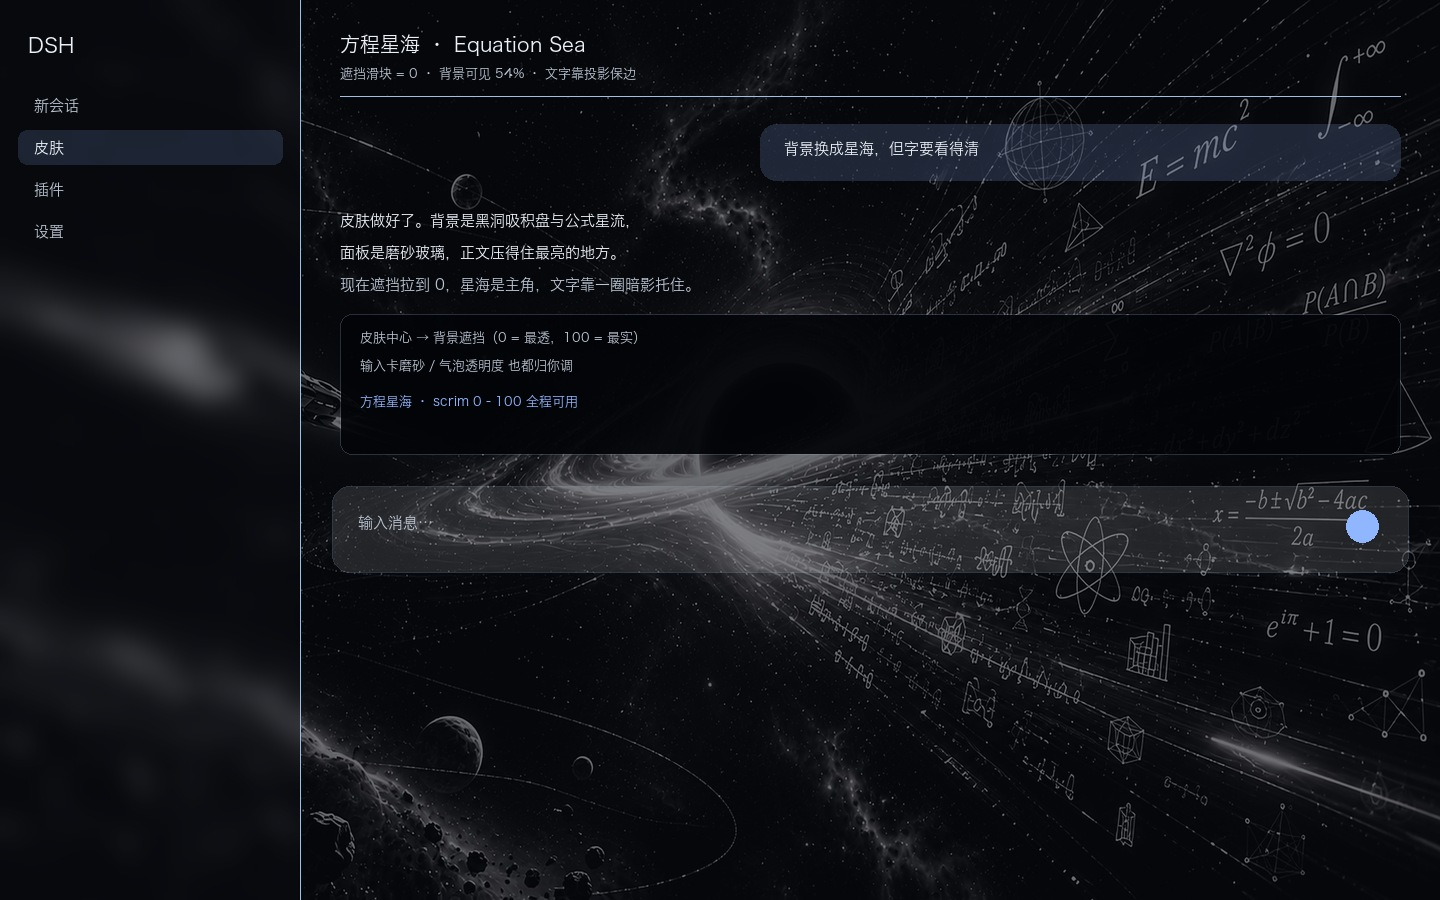
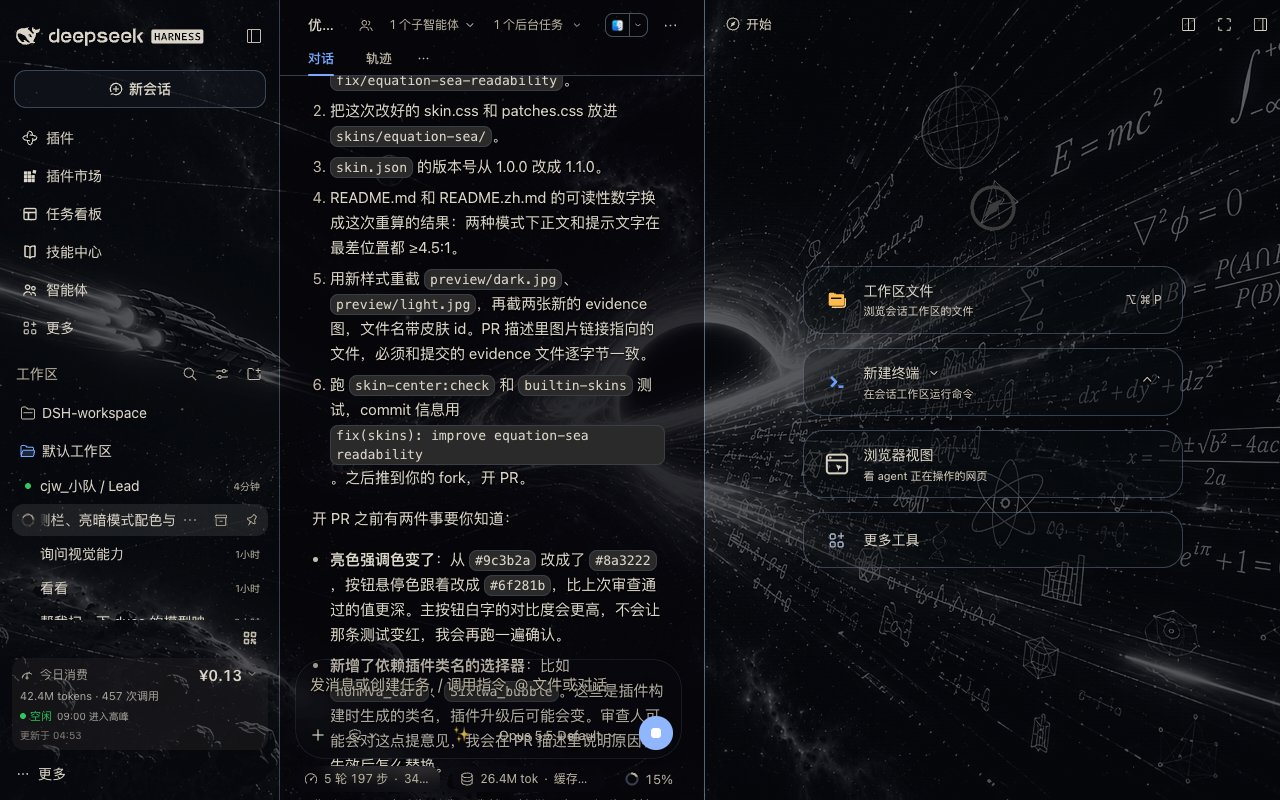
fix: 方程星海 v1.1.0 — 右栏透明、亮暗配色与卡片层叠
- 右侧栏去掉毛玻璃和 dock 重复叠加的底色，只留一层薄面纱；同栏文字单独加深一档
- 文字令牌换色：暗色改暖象牙色（#dcd6ca），亮色改深褐墨色（#2b1f14）；亮色强调色压深到 #8a3222
- 会话区与右栏共用阅读面纱，透明度集中在一个变量里
- 插件市场卡片加实填充、描边与投影，吸顶头接近不透明
- 用户气泡换底色并加发丝边，和模型回复分开
- 终端容器不再自己刷一层纯黑（xterm 未开透明，屏幕内底色仍由插件决定）
- 预览图、可读性表格同步更新

正文与所有提示文字在会话区、右侧栏、市场卡片三处均 >= 4.5:1。

diff --git a/skin.css b/skin.css
@@ -4,8 +4,10 @@
  * 设计前提
  *   背景是纯黑星海（原画 79% 的像素是 #000，最亮处接近 255）。
  *   面板必须是半透明玻璃，否则背景看不见；但玻璃必须够厚，否则文字压不住。
- *   所有 alpha 都用 WCAG 相对亮度算过：在背景**最亮**的那块像素上，
- *   正文 ≥ 8.5:1、次要文字 ≥ 4.6:1，均高于 AA (4.5)。
+ *   所有 alpha 都用 WCAG 相对亮度算过（scrim=0 的最坏情况）：
+ *   暗色看背景**最亮**像素（吸积盘高光 255），亮色看羊皮纸**最暗**像素（约 133）。
+ *   会话区、右侧栏、插件市场卡片三处的正文与所有提示文字均 ≥ 4.5:1（AA）。
+ *   右侧栏比会话区透，所以在 [data-dsh-surface="details"] 内单独加深了次要文字。
  *
  *   --dsw-skin-scrim 是皮肤中心「背景遮挡」滑块的 0–1 值：
  *   scrim=0 背景最透，scrim=1 基本回到实心。默认值下的可读性由下面的
@@ -20,8 +22,9 @@
   --eq-glass-4: calc(0.44 + var(--dsw-skin-scrim, 0) * 0.50);
   --eq-blur: 18px;
   --eq-hairline: rgba(90, 70, 45, 0.20);
-  --eq-accent: #9c3b2a;
-  --eq-accent-soft: rgba(156, 59, 42, 0.14);
+  /* #9c3b2a 在最暗羊皮纸上只有 3.8:1，压深到 #8a3222（4.6:1） */
+  --eq-accent: #8a3222;
+  --eq-accent-soft: rgba(138, 50, 34, 0.14);
 }
 
 /* 画布本身几乎透明，让星海透出来；真正的可读性由面板层负责 */
@@ -52,23 +55,35 @@
   --dsw-alias-markdown-code-block: rgba(250, 243, 228, 0.93);
   --dsw-alias-markdown-code-block-banner: rgba(240, 229, 206, 0.96);
 
-  --dsw-alias-label-primary: #3a2a1c;
-  --dsw-alias-label-primary-bluish: #3a2a1c;
-  --dsw-alias-label-primary-dimmed: #63482f;
-  --dsw-alias-label-primary-foreground: #3a2a1c;
+  /* 文字：墨褐四级，会话区最暗像素上 正文 9.1 / 次要 6.2 / 提示 5.0 / dimmed 4.7 */
+  --dsw-alias-label-primary: #2b1f14;
+  --dsw-alias-label-primary-bluish: #2b1f14;
+  --dsw-alias-label-primary-dimmed: #4a3a2a;
+  --dsw-alias-label-primary-foreground: #ffffff;
   --dsw-alias-label-primary-inverted: #ffffff;
-  --dsw-alias-label-secondary: #6b5741;
-  --dsw-alias-label-tertiary: #8a7355;
-  --dsw-alias-label-caption: #8a7355;
-  --dsw-alias-label-dimmed: #8a7355;
+  --dsw-alias-label-secondary: #4a3a2a;
+  --dsw-alias-label-tertiary: #5a4733;
+  --dsw-alias-label-caption: #5a4733;
+  --dsw-alias-label-dimmed: #5c4a36;
 
   --dsw-alias-brand-primary: var(--eq-accent);
   --dsw-alias-brand-primary-invert: #ffffff;
   --dsw-alias-button-primary-fill: var(--eq-accent);
-  --dsw-alias-button-primary-hover: #24509f;
-  --dsw-alias-button-primary-dimmed: rgba(47, 99, 200, 0.18);
+  --dsw-alias-button-primary-hover: #6f281b;
+  --dsw-alias-button-primary-dimmed: rgba(138, 50, 34, 0.20);
   --dsw-alias-button-info-fill: var(--eq-accent);
-  --dsw-alias-button-info-hover: #24509f;
+  --dsw-alias-button-info-hover: #6f281b;
+
+  /* 阅读面纱：会话区与右侧栏共用，替代原来 5% 的白雾 */
+  --eq-read-veil: rgba(241, 234, 220, 0.40);
+  --eq-rail-veil: rgba(241, 234, 220, 0.22);
+  /* 卡片：比页面亮一档、更实，叠在卡片上也分得开 */
+  --dsw-alias-settings-card-fill: rgba(250, 246, 238, 0.66);
+  --dsw-alias-settings-card-stroke: rgba(90, 70, 45, 0.30);
+  /* 吸顶头比卡片深约 8 个 L*，卡片滑进去时边界清楚 */
+  --eq-sticky-fill: rgba(226, 214, 190, 0.98);
+  /* 用户气泡：和模型正文分开，避免看错说话人 */
+  --dsw-specific-bubble: rgba(255, 250, 240, 0.72);
   --dsw-alias-button-floating-fill: rgba(255, 255, 255, 0.92);
   --dsw-alias-button-floating-hover: rgba(255, 255, 255, 1);
   --dsw-alias-button-elevated-fill: rgba(255, 255, 255, var(--eq-glass-3));
@@ -116,15 +131,24 @@ body[data-ds-dark-theme] {
   --dsw-alias-markdown-code-block: rgba(2, 3, 6, 0.90);
   --dsw-alias-markdown-code-block-banner: rgba(10, 13, 18, 0.92);
 
-  --dsw-alias-label-primary: #e9eef6;
-  --dsw-alias-label-primary-bluish: #eaf0f9;
-  --dsw-alias-label-primary-dimmed: #c8d2e0;
-  --dsw-alias-label-primary-foreground: #e9eef6;
+  /* 文字：冷白换成象牙暖灰，降低在黑白背景上的眩光；
+     会话区最亮像素（吸积盘高光 255）上 正文 7.0 / 次要 5.3 / 提示 4.75 / dimmed 4.6 */
+  --dsw-alias-label-primary: #dcd6ca;
+  --dsw-alias-label-primary-bluish: #dcd6ca;
+  --dsw-alias-label-primary-dimmed: #c2bbad;
+  --dsw-alias-label-primary-foreground: #06080c;
   --dsw-alias-label-primary-inverted: #06080c;
-  --dsw-alias-label-secondary: #b0bac8;
-  --dsw-alias-label-tertiary: #97a3b5;
-  --dsw-alias-label-caption: #97a3b5;
-  --dsw-alias-label-dimmed: #97a3b5;
+  --dsw-alias-label-secondary: #c2bbad;
+  --dsw-alias-label-tertiary: #b8b1a1;
+  --dsw-alias-label-caption: #b8b1a1;
+  --dsw-alias-label-dimmed: #b5ae9e;
+
+  --eq-read-veil: rgba(4, 5, 9, 0.48);
+  --eq-rail-veil: rgba(4, 5, 9, 0.32);
+  --dsw-alias-settings-card-fill: rgba(30, 35, 45, 0.72);
+  --dsw-alias-settings-card-stroke: rgba(180, 205, 240, 0.30);
+  --eq-sticky-fill: rgba(4, 5, 8, 0.98);
+  --dsw-specific-bubble: rgba(28, 34, 44, 0.72);
 
   --dsw-alias-brand-primary: var(--eq-accent);
   --dsw-alias-brand-primary-invert: #06080c;
@@ -146,11 +170,34 @@ body[data-ds-dark-theme] {
 }
 
 /* ---- 玻璃质感：只加在真正的大面上，避免污染布局 ------------------------- */
-[data-dsh-surface="sidebar"],
-[data-dsh-surface="details"] {
+[data-dsh-surface="sidebar"] {
   backdrop-filter: blur(var(--eq-blur)) saturate(115%);
   -webkit-backdrop-filter: blur(var(--eq-blur)) saturate(115%);
   border-color: var(--eq-hairline);
+}
+
+/* 右侧栏改为透明：去掉毛玻璃（它让右栏看起来是实心的，
+ * 还会把右栏变成 fixed tooltip 的包含块，tooltip 被推出屏幕），
+ * 只留一层很薄的阅读面纱，比会话区更透。 */
+[data-dsh-surface="details"] {
+  backdrop-filter: none;
+  -webkit-backdrop-filter: none;
+  border-color: var(--eq-hairline);
+  background-image: linear-gradient(var(--eq-rail-veil), var(--eq-rail-veil));
+  /* 右栏遮挡比会话区少，次要文字和强调色在这里再加深一档才能在最坏像素上过 AA */
+  --dsw-alias-label-tertiary: #4f3e2c;
+  --dsw-alias-label-caption: #4f3e2c;
+  --dsw-alias-label-dimmed: #4f3e2c;
+  --dsw-alias-brand-primary: #742818;
+}
+
+body[data-ds-dark-theme] [data-dsh-surface="details"] {
+  --dsw-alias-label-primary-dimmed: #d6d0c3;
+  --dsw-alias-label-secondary: #d6d0c3;
+  --dsw-alias-label-tertiary: #d2cbbd;
+  --dsw-alias-label-caption: #d2cbbd;
+  --dsw-alias-label-dimmed: #d2cbbd;
+  --dsw-alias-brand-primary: #b2cdff;
 }
 
 [data-dsh-surface="session-header"] {
@@ -158,14 +205,8 @@ body[data-ds-dark-theme] {
   -webkit-backdrop-filter: blur(14px) saturate(110%);
 }
 
-/* 会话主体保持通透，文字靠 bg-base 的暗度压住；这里只补一层很轻的雾 */
+/* 会话主体：bg-base 之上再叠一层阅读面纱，保证吸积盘高光处正文仍过 AA。
+ * 想让星海更亮，只改 --eq-read-veil 的 alpha 一处即可。 */
 [data-dsh-surface="conversation"] {
-  background-image: linear-gradient(
-    rgba(255, 255, 255, 0.05),
-    rgba(255, 255, 255, 0.05)
-  );
-}
-
-body[data-ds-dark-theme] [data-dsh-surface="conversation"] {
-  background-image: linear-gradient(rgba(0, 0, 0, 0.10), rgba(0, 0, 0, 0.10));
+  background-image: linear-gradient(var(--eq-read-veil), var(--eq-read-veil));
 }

diff --git a/patches.css b/patches.css
@@ -76,3 +76,89 @@ body[data-ds-dark-theme] [data-dsh-surface="conversation"] {
 [data-dsh-surface="conversation"] code * {
   text-shadow: none;
 }
+
+/* ============================================================================
+ * 以下为 2026-11 可读性修订（右侧栏透明 / 文字配色 / 卡片层叠）
+ * 例外说明：本节有两处改了底色，都是为了**去掉**宿主重复叠加的实心层，
+ * 或给"压在别的内容上面"的浮层补足遮挡；普通面板仍只走 skin.css 的令牌。
+ * ========================================================================== */
+
+/* ---- 1. 右侧栏透明 -------------------------------------------------------
+ * 宿主在右栏画了两层 bg-base：布局层 .pI_x6G_rightbarCol 一层，
+ * dockkit 的 ._tabHost_*:not(._float_*) 再一层。去掉 dockkit 那层，
+ * 只保留布局层 + skin.css 的 --eq-rail-veil。
+ * 只在右栏内生效；浮动窗（_float）和其他 dock 区域不受影响。 */
+[data-dsh-surface="details"] [class*="_tabHost_"]:not([class*="_float_"]),
+[data-dsh-surface="details"] [class*="_emptyTabHost_"] {
+  background: transparent;
+}
+
+/* 透明后右栏文字直接压在星海上，补和会话区同款的笔画投影 */
+[data-dsh-surface="details"] {
+  text-shadow: 0 1px 2px rgba(255, 255, 255, 0.70), 0 0 2px rgba(255, 255, 255, 0.50);
+}
+
+body[data-ds-dark-theme] [data-dsh-surface="details"] {
+  text-shadow: 0 1px 2px rgba(0, 0, 0, 0.70), 0 0 3px rgba(0, 0, 0, 0.55);
+}
+
+[data-dsh-surface="details"] pre,
+[data-dsh-surface="details"] pre *,
+[data-dsh-surface="details"] code,
+[data-dsh-surface="details"] [class*="xterm"],
+[data-dsh-surface="details"] [class*="xterm"] * {
+  text-shadow: none;
+}
+
+/* ---- 2. 用户消息与模型消息分开 -------------------------------------------
+ * 用户气泡底色来自 skin.css 的 --dsw-specific-bubble；这里只补一条发丝边，
+ * 让"谁说的"在黑白背景上一眼可辨。 */
+[data-dsh-part="message-row"] [class~="Sixlwa_bubble"] {
+  box-shadow: inset 0 0 0 1px var(--eq-hairline);
+}
+
+/* ---- 3. 卡片层叠：上层内容必须遮住下层 -----------------------------------
+ * 插件市场的吸顶头（标签/搜索/分类）原本用半透明 bg-base，
+ * 卡片滚到它下面时两层文字重叠。改为近实心，并加一条分隔阴影。 */
+[class~="nUhMVa_stickyHead"] {
+  background: var(--eq-sticky-fill);
+  box-shadow: 0 1px 0 var(--eq-hairline), 0 8px 16px -12px rgba(0, 0, 0, 0.45);
+}
+
+/* 卡片：底色已在 skin.css 走 --dsw-alias-settings-card-fill，
+ * 这里加内高光 + 外阴影，让卡片边缘和下层分开。
+ * 注意：nUhMVa_/bkhjFa_/RcIGlq_ 是插件的 CSS-module 哈希前缀，
+ * 插件大版本升级后可能变，失效时在 DevTools 里查新前缀替换即可。 */
+[class~="nUhMVa_card"],
+[class~="bkhjFa_card"],
+[class~="RcIGlq_card"] {
+  box-shadow: inset 0 1px 0 rgba(255, 255, 255, 0.06), 0 6px 18px -10px rgba(0, 0, 0, 0.55);
+}
+
+/* 卡片里再嵌卡片（展开态/嵌套态）：内层再实一档 */
+[class~="RcIGlq_cardNested"] {
+  background: var(--dsw-alias-bg-overlay);
+}
+
+/* 压在卡片之上的市场浮层：操作面板、回到顶部。
+ * 卡片的"…"菜单是宿主通用菜单（role="menu"），由 --dsw-menu-* 变量控制，
+ * 这里不动它，以免波及全站下拉菜单。 */
+[class~="nUhMVa_opPanel"],
+[class~="nUhMVa_top"] {
+  background: var(--dsw-alias-bg-overlay);
+  backdrop-filter: none;
+  -webkit-backdrop-filter: none;
+}
+
+/* ---- 4. 终端面板：别让面板自己刷一层纯黑 ---------------------------------
+ * 终端（xterm.js）读容器的计算背景当自己的底色，宿主给
+ * [class~="_UE8Aa_screen"] 写了 background: var(--dsw-alias-bg-base)，
+ * 算完是不透明深色，xterm 就整块刷黑，星海透不出来 —— 同一栏的「文件」
+ * 面板没这层，所以亮得多。这里把面板容器和 viewport 让出来。
+ * 限制：xterm 默认不开透明（allowTransparency 为 false），屏幕里的文字块
+ * 仍由它自己填色；容器的黑边能去掉，xterm 内部底色是否透，取决于插件。 */
+[data-dsh-surface="details"] [class~="_UE8Aa_screen"],
+[data-dsh-surface="details"] [class~="_UE8Aa_screen"] .xterm,
+[data-dsh-surface="details"] [class~="_UE8Aa_screen"] .xterm-viewport {
+  background: transparent;
+}

diff --git a/README.md b/README.md
@@ -19,22 +19,28 @@
 | 决定 | 做法 |
 |---|---|
 | 背景 | 原图 16:9 补边到 2560×1440，提亮暗部（原画 79% 是纯黑，直接压面板会糊成一团），锐化后存 JPEG q90 |
-| 暗色模式 | 黑玻璃：会话区 62% 遮挡 + 侧栏 55% + 面板 62–78%，星海透出约 38% |
-| 亮色模式 | 白雾玻璃：整体 86–93% 白色遮罩，画面变成极淡的星图底纹，正文用近黑 |
-| 玻璃质感 | 侧栏 / 详情栏加 `backdrop-filter: blur(18px)`，输入卡只加发丝内阴影（官方规定输入卡不能加 `backdrop-filter`，否则 tooltip 会被推进滚动区） |
+| 暗色模式 | 黑玻璃：画布先压一道，会话区再叠一层阅读面纱，星海仍能透出来；文字用暖象牙色而不是纯白，减少在黑白背景上的眩光 |
+| 亮色模式 | 白雾玻璃：羊皮卷压暗后铺底，会话区和右侧栏各有一层阅读面纱，正文用深褐墨色 |
+| 右侧栏 | 比会话区更透：去掉毛玻璃（它会把右栏变成 fixed tooltip 的包含块），只留一层薄面纱，次要文字单独加深一档 |
+| 玻璃质感 | 侧栏与顶部栏加 `backdrop-filter` 毛玻璃，输入卡只加发丝内阴影（官方规定输入卡不能加 `backdrop-filter`，否则 tooltip 会被推进滚动区） |
+| 卡片层次 | 卡片用高过页面一档的填充 + 描边 + 投影；插件市场吸顶头接近不透明，卡片滚到下面时文字不会透上来 |
+| 终端面板 | 去掉终端容器自己刷的那层深色底；但 xterm 默认不开透明，屏幕内底色仍由终端插件决定 |
 | 代码块 | 强制不透明——星海不许透进来，否则语法色废掉 |
 | 遮挡滑块 | 所有 alpha 写成 `calc(基础值 + var(--dsw-skin-scrim) × 增量)`，皮肤中心的滑块可以在皮肤自身的基础上继续加深 |
 
 ## 可读性验算
 
-用 WCAG 相对亮度在**背景最亮的像素**上算的，不是估计：
+用 WCAG 相对亮度算，并把宿主实际绘制的每一层都合成进去（清单的 scrim、栏位底色、皮肤的面纱）。数字不是估计：
 
-| 模式 | 正文 | 次要文字 | WCAG AA 要求 |
-|---|---|---|---|
-| 暗色 | ≥ 8.4 : 1 | ≥ 5.0 : 1 | 4.5 : 1 |
-| 亮色 | ≥ 13.2 : 1 | ≥ 4.9 : 1 | 4.5 : 1 |
+| 模式 | 区域 | 正文 | 次要文字 | 提示 / 说明 | dimmed |
+|---|---|---|---|---|---|
+| 暗色 | 会话区 | 7.0 : 1 | 5.3 : 1 | 4.75 : 1 | 4.6 : 1 |
+| 暗色 | 右侧栏 | 5.2 : 1 | 4.9 : 1 | 4.7 : 1 | 4.7 : 1 |
+| 亮色 | 会话区 | 9.1 : 1 | 6.2 : 1 | 5.0 : 1 | 4.7 : 1 |
+| 亮色 | 右侧栏 | 7.8 : 1 | 5.3 : 1 | 5.0 : 1 | 5.0 : 1 |
+| 两者 | 插件市场卡片 / 吸顶头 | ≥ 9.7 : 1 | | | ≥ 5.4 : 1 |
 
-即使背景最亮的那块公式正好落在文字后面，正文依然远高于 AA。
+取皮肤中心「背景遮挡」为 0 时的最坏像素：暗色看吸积盘最亮的像素，亮色看羊皮卷最暗的像素。所有文字令牌在所有区域都过 AA（4.5 : 1）。
 
 ---
 
@@ -64,7 +70,7 @@ dsh plugin --profile web add github:<user>/dsh-skin-equation-sea
 equation-sea/
 ├── skin.json                        v2 清单（亮/暗两套背景 + 遮罩）
 ├── skin.css                         亮/暗 --dsw-* 令牌 + 玻璃质感
-├── patches.css                      发丝边、代码块钉死不透明、设置模态磨砂
+├── patches.css                      发丝边、代码块钉死不透明、右栏与卡片层次、终端容器
 ├── assets/backdrop.jpg              2560×1440 暗色背景
 ├── assets/backdrop-parchment.jpg    亮色羊皮卷背景
 ├── assets/backdrop-light.jpg
